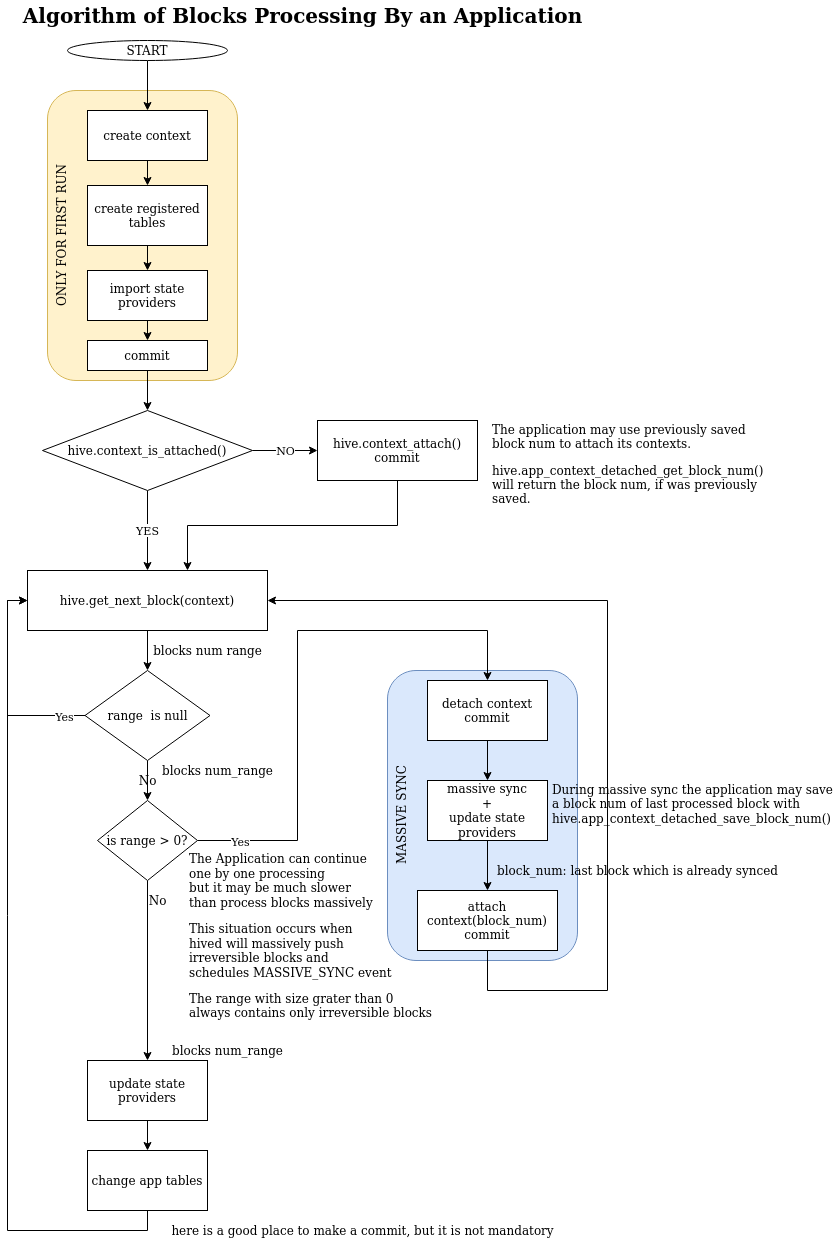
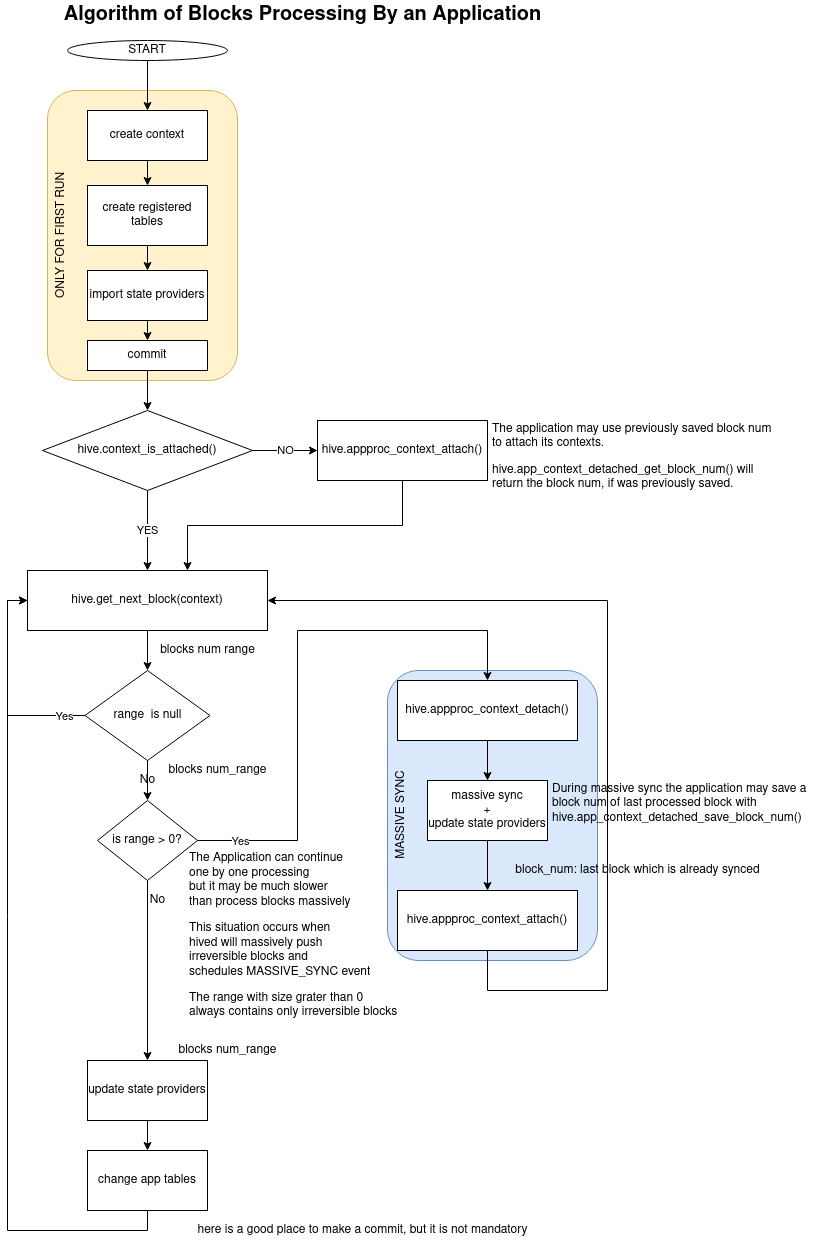
issue #153: stored procedures for contexts attach and detach

diff --git a/src/hive_fork_manager/Readme.md b/src/hive_fork_manager/Readme.md
@@ -54,7 +54,6 @@ When a range of block numbers is returned by app_next_block, the app may edit it
 data by querying the 'hive.{context_name}_{ blocks | transactions | operations | transactions_multisig }' views. These view present a data snapshot for the first block in the returned block range. If the number of blocks in the returned range is large, then it may be more efficient for the app to do a "massive sync" instead of syncing block-by-block.
 
 To perform a massive sync, the app should detach the context, execute its sync algorithm using the block data, then reattach the context. This will eliminate the performance overhead associated with the  triggers installed by the fork manager that monitor changes to the app's tables.
-Commit is mandatory immediately after attaching context with a function 'hive.app_context_attach'.
 
 It is possible that an app's operation will be stopped for some reason during a massive sync (i.e. when its context is detached). To deal with this potential scenario, when an app is restarted it should check if its context is attached using `hive.app_context_is_attached`, and if not then it needs to attach again using `hive.app_context_attach` and then 'COMMIT' a pending transaction.
 
@@ -399,19 +398,32 @@ fork control (detach of context is required first) or it can still process them 
 
 hive.app_next_block cannot be used when a context is detached - in such case an exception is thrown.
 
+##### hive.appproc_context_detach( context_name )
+##### hive.appproc_context_detach( array_of_contexts )
+Stored procedures.
+Detaches triggers attached to tables registered in a given context or contexts. It allows to do a massive sync of irreversible blocks without overhead from triggers. The context's views are recreated to return only all irreversible data.
+
 ##### hive.app_context_detach( context_name )
 ##### hive.app_context_detach( array_of_contexts )
-Detaches triggers attached to tables registered in a given context or contexts. It allows to do a massive sync of irreversible blocks without overhead from triggers. The context's views are recreated to return only all irreversible data.
+:warning: These functions have been deprecated and will be removed in future releases. They perform the same tasks as their procedural equivalents presented above, which should be used instead.
+
+
+##### hive.appproc_context_attach( context_name, block_num )
+##### hive.appproc_context_attach( array_of_contexts, block_num )
+Stored procedures. Enables triggers attached to registered tables in a given context or contexts and sets current contexts block number. The `block_num` cannot
+be greater than the latest irreversible block. The context's views are recreated to return both reversible and irreversible data limited to the context's current block.
+
 
 ##### hive.app_context_attach( context_name, block_num )
 ##### hive.app_context_attach( array_of_contexts, block_num )
-Enables triggers attached to registered tables in a given context or contexts and sets current contexts block number. The `block_num` cannot
-be greater than the latest irreversible block. The context's views are recreated to return both reversible and irreversible data limited to the context's current block.
+:warning: These functions have been deprecated and will be removed in future releases. They perform the same tasks as their procedural equivalents presented above, which should be used instead.
 Committing pending transaction with 'COMMIT' after attaching context is mandatory, otherwise intermittent problems with finding a first event to process will occur - race conditions
 between hived process and an application being moving to the next event after attach.
 
 ##### hive.app_context_is_attached( context_name )
 Returns TRUE when a given context is attached. It will throw an exception when there is no a context with the given context_name.
+Committing pending transaction with 'COMMIT' after attaching context is mandatory, otherwise intermittent problems with finding a first event to process will occur - race conditions
+between hived process and an application being moving to the next event after attach.
 
 ##### hive.app_context_are_attached( array_of_contexts )
 Equivalent of 'hive.app_context_is_attached' for a group of contexts. When an array of contexts consists attached and detached
